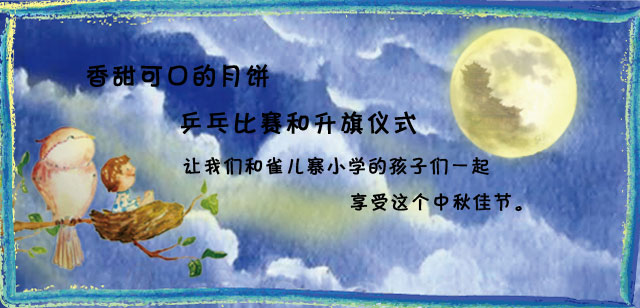
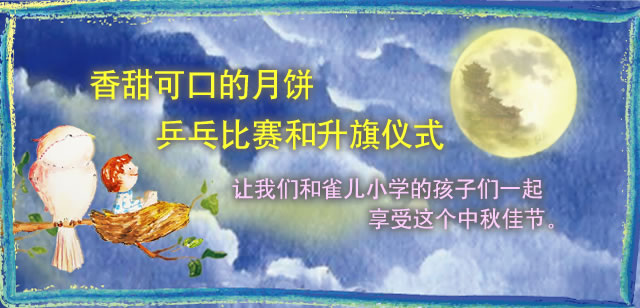
done mooncake page layout

diff --git a/public/stylesheets/mooncake.css b/public/stylesheets/mooncake.css
@@ -1,0 +1,5 @@
+.lcolumn {float:left; margin-left:20px; width:520px;}
+.rcolumn {margin-left:560px; width:400px;}
+div.info {line-height:1.6em;}
+div.info label {float:left; margin-right:10px;}
+div.info p {margin-top:5px; float:left; display:inline; width:400px;}
